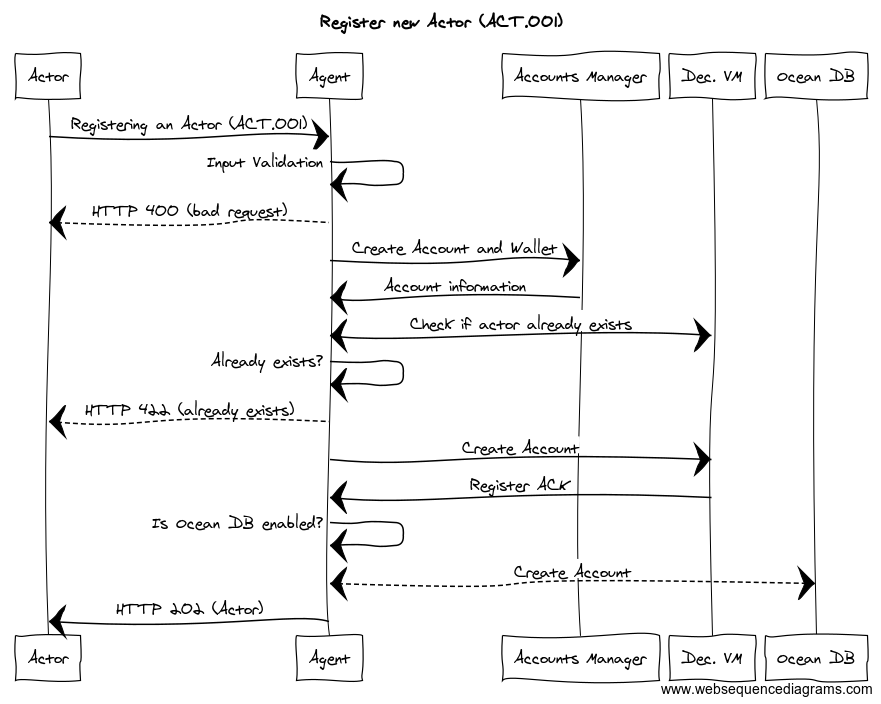
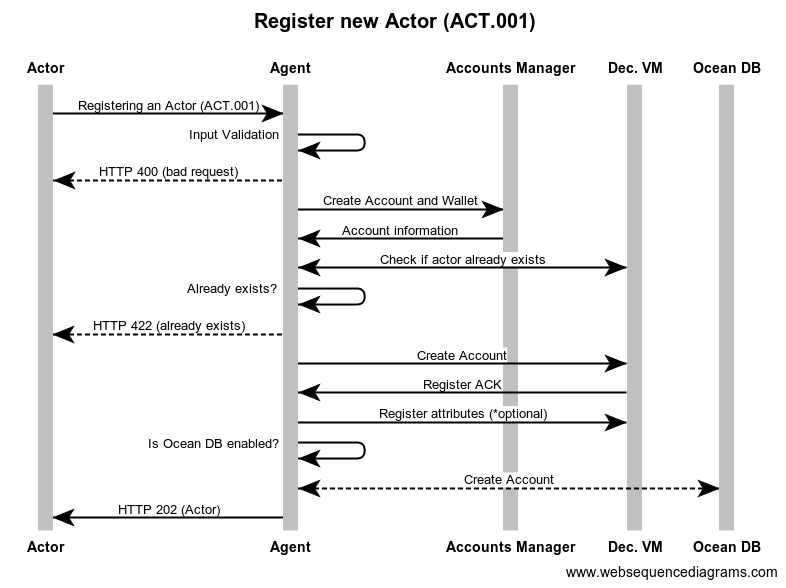
modifications after peer review

Changed region(s): [[0.0, 0.0, 1.0, 1.0]]

diff --git a/13/README.md b/13/README.md
@@ -140,31 +140,29 @@ contract ActorsRegistry {
     uint256 constant STATE_CREATED = 0; // Actor just created in the system
     uint256 constant STATE_WHITELISTED = 1; // Actor whitelisted after a curation/verification process
     uint256 constant STATE_BANNED = 2; // Actor banned from the system
-    uint256 constant STATE_DISABLED = 3; // Actor retired or disabled of the system
+    uint256 constant STATE_DISABLED = 9; // Actor retired or disabled of the system
 
     struct Actor {
         address id;
-        uint256 state;
+        mapping(address => uint256) state;
     }
     
     /////// EVENTS //////////////////////////////
-    event ActorRegistered(address indexed _id, uint256 _state);    
+    event ActorRegistered(address indexed _id, address _mktId);    
     
     event ActorAttributeChanged(address indexed _id, bytes32 _name, bytes32 _value, bool _isValid);    
     
     
     /////// FUNCTIONS ///////////////////////////
-    function register(address _id) external returns (bool success);
+    function register(address _id, address _mktId) external returns (bool success);
     
-    function getState(address _id) external view returns (uint state);
+    function getState(address _id, address _mktId) external view returns (uint256 state);
     
     function canUpdate(address _id) external view returns (bool success);
-    
-    function canRetire(address _id) external view returns (bool success);
-    
+      
     function updateState(address _id, uint256 _newState) external returns (bool success);
     
-    function retire(address _id) external returns (bool success);
+    function retire(address _id, address _mktId) external returns (bool success);
 
     function setAttribute(address _id, bytes32 _key, bytes32 _value) external onlyOwner returns (bool success);
 
@@ -178,9 +176,10 @@ Different states are:
 * CREATED (state = 0) - Actor just created in the system
 * WHITELISTED (state = 1) - Actor whitelisted after a curation/verification process
 * BANNED (state = 2) - Actor banned from the system
-* DISABLED (state = 3) - Actor retired or disabled of the system
+* DISABLED (state = 9) - Actor retired or disabled of the system
 
 To save costs, the states are mapped to uint. Additional attributes required by the Actors TCR could be required (see [TCR OEP](../11/README.md)).
+The state is associated to the Marketplace, allowing to have different actor states per marketplace.
 
 
 ### Registering a new Actor <a name="registering-a-new-actor"></a>
@@ -213,6 +212,7 @@ HTTP Output Status Codes:
 | Parameter | Type | Description |
 |:----------|:-----|:------------|
 |password   |string|Account password|
+|marketplaceId|string|Marketplace Id where this user is registered (optional)|
 |attributes   |key-value hashmap|Decentralized ID Document Attributes (optional)|
 |metadata   |Json Object|Free Json object of information to be persisted in Ocean DB if enabled (optional)|
 
@@ -224,6 +224,7 @@ Example:
 ```json
 {	
 	"password": "secret",
+	"marketplaceId": "0x546753482346675aabbcc423542",
 	"attributes": {
 	  "providerEndpoint": "http://example.com/endpoint"
 	},
@@ -264,7 +265,7 @@ The **KEEPER::Decentralized VM** will persist the following information:
 | Attribute | Type | Description |
 |:----------|:-----|:------------|
 |actorId    |address|Owner of the Asset|
-|state      |uint  |TCR state of the user|
+|state      |mapping|TCR state of the user per marketplace (marketplaceId => state)|
 
 Also, in order to compose the Decentralized ID Document, the Keeper will **emit** events with the attributes specified. Those attributes will be used as a
 [cheaper form of storage](https://media.consensys.net/technical-introduction-to-events-and-logs-in-ethereum-a074d65dd61e). Attributes don't need to be in the Smart Contract scope,
@@ -285,7 +286,7 @@ If it's enabled, the Ocean DB layer will interact with the backend to store the 
 | Attribute | Type | Description |
 |:----------|:-----|:------------|
 |actorId    |string|Actor Id|
-|state      |enum  |Internal state information. One of the following("CREATED", "WHITELISTED", "BANNED", "DISABLED")|
+|state      |mapping  |Internal state information per marketplace. One of the following("CREATED", "WHITELISTED", "BANNED", "DISABLED")|
 |attributes   |key-value hash-map|Decentralized ID Document Attributes (optional)|
 |creationDatetime |Datetime |Creation datetime set by the database|
 |metadata   |Json Object|Free Json object with attributes given in the request|
@@ -297,19 +298,19 @@ Different states are:
 * BANNED - Actor banned from the system
 * DISABLED - Actor retired or disabled of the system
 
-Actor state will be set as **CREATED** by the system.
+If a MarketplaceId is provided, the Actor state in that Marketplace will be set as **CREATED** by the system.
 
 
 #### Output
 
-After creating the Actor in the datastores, the AGENT will return a HTTP 202 Accepted message. It means the request has been accepted for processing, but the processing has not been completed.
+After creating the Actor in the data-stores, the AGENT will return a HTTP 202 Accepted message. It means the request has been accepted for processing, but the processing has not been completed.
 
 Using the information stored and provided by the user, the **AGENT** SHOULD compose the output payload to return. It should include the following information:
 
 | Attribute | Type | Description |
 |:----------|:-----|:------------|
 |actorId    |string|Account address|
-|state      |enum  |Internal state information. One of the following("CREATED", "WHITELISTED", "BANNED", "DISABLED")|
+|state      |key-value hash-map |Internal state information per marketplace. Key is the MarketplaceId, Value is one of the following("CREATED", "WHITELISTED", "BANNED", "DISABLED")|
 |attributes   |key-value hashmap|Decentralized ID Document Attributes (optional)|
 |creationDatetime |Datetime |Creation datetime set by the database|
 |metadata   |Json Object|Free Json object with attributes given in the request|
@@ -320,7 +321,9 @@ Using the information stored and provided by the user, the **AGENT** SHOULD comp
 
 ![Retrieve info of an Actor](images/ACT.002.png "ACT.002")
 
-In the [above diagram](diagrams/ACT.002.md), the retrieval of the Actor information state is related with the AGENT and the KEEPER::Decentralized VM. No information is read from Ocean DB. This functionality involves the following implementations:
+In the [above diagram](diagrams/ACT.002.md), the retrieval of the Actor information state is related with the AGENT and the KEEPER::Decentralized VM. 
+No information is read from Ocean DB unless an Ocean DB interface implementation being provided. 
+This functionality involves the following implementations:
 
 #### Ocean Agent API
 
@@ -355,7 +358,10 @@ GET http://localhost:8080/api/v1/actors/0x8f0227d45853a50eefd48dd4fec25d5b3fd229
 ```json
 {
     "actorId": "0x8f0227d45853a50eefd48dd4fec25d5b3fd2295e",
-	"state": "CREATED"
+	"state": {
+	  "0x546753482346675aabbcc423542": "WHITELISTED",
+	  "0xaa79785490584305983045843a2": "BANNED"
+	}
 }
 ```
 
@@ -373,7 +379,17 @@ The Decentralized VM stores the state about the Actors. Using the actorId as key
 
 The information about the state can be obtained integrating the `ActorsRegistry::getState` Smart Contract method.
 
-If the Actor metadata has the state attribute `state == DISABLED` the method should return a **HTTP 404** Not Found message.
+The information about the Actor attributes can be retrieved from the events. When a new Actor attribute is created/updated, the system triggers a **ActorAttributeChanged** event.
+Those attributes encapsulated as events compose the DOD associated to a actorId.
+
+Using the web3 libraries, it's possible to [query](http://web3py.readthedocs.io/en/stable/filters.html) for all the events with topic == ActorAttributeChanged raised by a specific address (actorId).
+
+
+#### Interaction with Ocean DB
+
+The integration with OCEAN DB is optional, so only will works if an implementation backend is provided.
+
+If it's enabled, the AGENT will interact with Ocean DB to retrieve the metadata associated to a specific actorId. 
 
 
 <a name="updating-actor-metadata"></a>
@@ -383,9 +399,10 @@ If the Actor metadata has the state attribute `state == DISABLED` the method sho
 
 In the [above diagram](diagrams/ACT.003.md) the Agent and the Account Manager capabilities are implemented in the AGENT scope.
 
-This method it's a wrapper to edit the Actors Metadata, not the essential (KEEPER::VM) information. So only the metadata information can be updated.
+This method it's a wrapper to edit the Actors Metadata, not the essential (KEEPER::VM) information. So only the metadata information and attributes can be updated.
 
-The KEEPER::Decentralized VM works in this method as authorization mechanism, allowing/denying the user to update the Metadata.
+The KEEPER::Decentralized VM works in this method as authorization mechanism, allowing/denying the user to update the Metadata. 
+Also the KEEPER allows to update the Actor attributes (DOD). Actor attributes are registered using Events. 
 
 The updating of an existing Actor metadata involves the following implementations:
 
@@ -432,19 +449,14 @@ Example:
 }
 ```
 
-#### Accounts Management
-
-The Accounts Manager components it's not involved in this method. 
-
 
 #### Interaction with the Keeper
 
 The Decentralized VM stores the state about the Actors. Using the actorId as key in the Actors collection, the system will authorize or deny the update of the Actor information..
 
-The information about if the actor is enabled or disabled can be obtained integrating the `ActorsRegistry::getState` Smart Contract method.
+The information about if the actor is enabled or disabled (per Marketplace) can be obtained integrating the `ActorsRegistry::getState` Smart Contract method.
 The information about if the actor can be updated can be obtained integrating the `ActorsRegistry::canUpdate` Smart Contract method.
 
-If the Actor metadata has the state attribute `state == DISABLED (9)` the method should return a **HTTP 404** Not Found message.
 If after executing the `ActorsRegistry::canUpdate` method, the Actor can't be updated by the user, the method should return a **HTTP 401** Forbidden message.
 
 The information about the attributes will be registered using the `ActorsRegistry::registerAttribute` Smart Contract method. Attributes will be stored as events.
@@ -483,9 +495,7 @@ It is necessary to expose a RESTful HTTP interface using the following details:
 Reference: ACT.004
 Path: /api/v1/actors/{actorId}
 HTTP Verb: DELETE
-Caller: Actor
-Input: actorId
-Output: Actor Schema
+Caller: Marketplace
 HTTP Output Status Codes: 
     HTTP 202 - Accepted
     HTTP 400 - Invalid params
@@ -497,6 +507,8 @@ HTTP Output Status Codes:
 | Parameter | Type | Description |
 |:----------|:-----|:------------|
 |actorId    |string|Account address|
+|marketplaceId|string|MarketplaceId where the user must be retired (msg.sender)|
+
 
 
 Example: 
@@ -508,24 +520,22 @@ DELETE http://localhost:8080/api/v1/actors/0x8f0227d45853a50eefd48dd4fec25d5b3fd
 ```json
 {
     "actorId": "0x8f0227d45853a50eefd48dd4fec25d5b3fd2295e",
-    "state": "DISABLED"
+	"state": {
+	  "0x546753482346675aabbcc423542": "DISABLED"
+	}
 }
 ```
-
-#### Accounts Management
-
-The Accounts Manager components it's not involved in this method. 
 
 
 #### Interaction with the Keeper
 
-The Decentralized VM stores the state about the Actors. Using the actorId as key in the Actors collection, the system will authorize or deny the retirement of the Actor information..
+The Decentralized VM stores the state about the Actors associated to a Marketplace. 
+Using the marketplaceId as key in the state mapping, the system will authorize to the Marketplace (msg.sender) to retire or not an Actor for an specific Marketplace.
 
-The information about if the actor is enabled or disabled can be obtained integrating the `ActorsRegistry::getState` Smart Contract method.
-The information about if the actor can be retired can be obtained integrating the `ActorsRegistry::canRetire` Smart Contract method.
+An actor can be disabled or retired of an specific Marketplace using the `ActorsRegistry::retire` Smart Contract method, by the specific Marketplace.
 
 If the Actor metadata has the state attribute `state == DISABLED (9)` the method should return a **HTTP 404** Not Found message.
-If after executing the `ActorsRegistry::canRetire` method, the Actor can't be updated by the user, the method should return a **HTTP 401** Forbidden message.
+If after executing the `ActorsRegistry::retire` method, the Actor can't be updated by the user, the method should return a **HTTP 401** Forbidden message.
 
 
 
@@ -538,12 +548,14 @@ After updating the Actor state in the Database, it will return a HTTP 202 Accept
 
 #### Output
 
-All the information to output is the actorId and state of the user.
+All the information to output is the actorId and state of the user in the marketplaces associated.
 
 ```json
 {
     "actorId": "0x8f0227d45853a50eefd48dd4fec25d5b3fd2295e",
-    "state": "DISABLED"
+	"state": {
+	  "0x546753482346675aabbcc423542": "DISABLED"
+	}
 }
 ```
 

diff --git a/13/diagrams/ACT.003.md b/13/diagrams/ACT.003.md
@@ -1,5 +1,7 @@
 <!-- Open with websequencediagrams.com -->
 
+```text
+
 title Update an Actor (ACT.003)
 
 Actor->Agent: Update an Actor (ACT.003)
@@ -9,10 +11,11 @@ Agent->Agent: Is Ocean DB enabled?
 
 Agent-->Actor:HTTP 400 (invalid params)
 
-Agent->Dec. VM: Get Actor
-Dec. VM->Agent: Actor state
+Agent<->Dec. VM: Get Actor
 
 Agent->Agent: Actor exists & can update?
+
+Agent->Dec. VM: Update attributes (*optional)
 
 Agent-->Actor:HTTP 404 (not found)
 Agent-->Actor:HTTP 401 (forbidden)
@@ -23,6 +26,8 @@ Ocean DB->Agent: Creation ACK
 
 
 Agent->Actor: HTTP 202 (Actor)
+
+```
 
 
 

diff --git a/13/diagrams/ACT.004.md b/13/diagrams/ACT.004.md
@@ -1,5 +1,7 @@
 <!-- Open with websequencediagrams.com -->
 
+```text
+
 title Retire an Actor (ACT.004)
 
 Actor->Agent: Retire an Actor (ACT.004)
@@ -15,7 +17,7 @@ Agent->Agent: Actor exists & can be retired?
 Agent-->Actor:HTTP 404 (not found)
 Agent-->Actor:HTTP 401 (forbidden)
 
-note right of Dec. VM: state= 9
+note right of Dec. VM: [MarketplaceId] => DISABLED
 Agent->Dec. VM: Retire Actor
 Dec. VM->Agent: ACK
 
@@ -26,5 +28,4 @@ Ocean DB->Agent: ACK
 Agent->Actor: HTTP 202 (Actor)
 
 
-
-
+```

diff --git a/13/diagrams/ACT.002.md b/13/diagrams/ACT.002.md
@@ -1,5 +1,6 @@
 <!-- Open with websequencediagrams.com -->
 
+```text
 title Get an Actor (ACT.002)
 
 
@@ -17,6 +18,12 @@ Dec. VM-->Agent:Actor doesn't exists
 Agent-->Marketplace:HTTP 404 (not found)
 
 Dec. VM->Agent: Actor information
+Dec. VM->Agent: Actor attributes
+
+Agent->Agent: Is OceanDB enabled?
+
+Agent<-->OceanDB: Get Actor metadata
 Agent->Marketplace: HTTP 200 (Actor)
 
+```
 

diff --git a/13/diagrams/ACT.001.md b/13/diagrams/ACT.001.md
@@ -1,5 +1,7 @@
 <!-- Open with websequencediagrams.com -->
 
+```text
+
 title Register new Actor (ACT.001)
 
 participant Actor
@@ -22,7 +24,11 @@ Agent->Dec. VM: Create Account
 
 Dec. VM->Agent: Register ACK
 
+Agent->Dec. VM: Register attributes (*optional)
+
 Agent->Agent: Is Ocean DB enabled?
 Agent<-->Ocean DB: Create Account
 
 Agent->Actor: HTTP 202 (Actor)
+
+```
